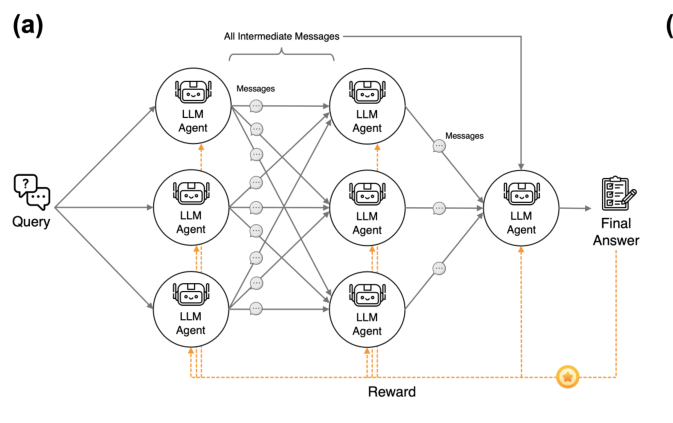
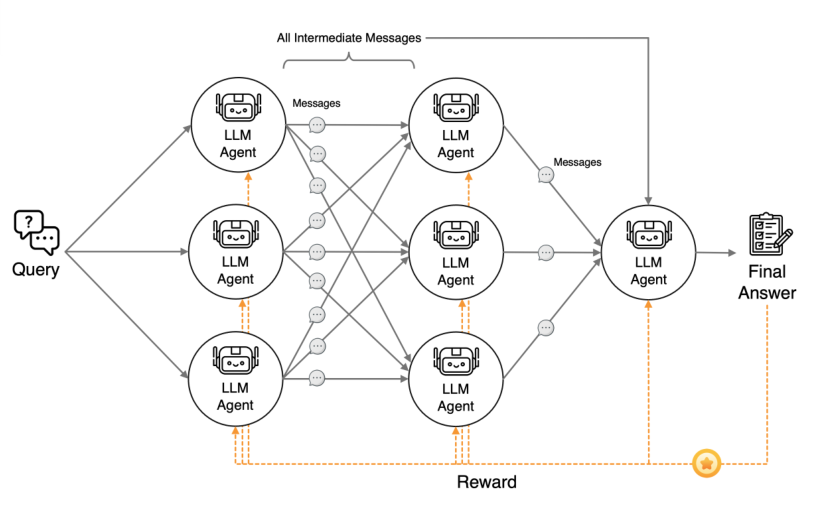
Enlarge research card images and clean NeuroMAS crop

diff --git a/_sass/_research.scss b/_sass/_research.scss
@@ -16,8 +16,9 @@
 
 .research-card {
   display: flex;
-  gap: 1.5em;
-  align-items: center;
+  flex-direction: column;
+  gap: 1em;
+  align-items: stretch;
   padding: 1.1em;
   margin: 0 0 1.2em;
   background: #fff;
@@ -27,8 +28,8 @@
   &:hover { box-shadow: 0 8px 24px rgba(0, 0, 0, 0.08); transform: translateY(-2px); }
 
   &__media {
-    flex: 0 0 38%;
-    img, video { width: 100%; display: block; border-radius: 8px; object-fit: contain; aspect-ratio: 16 / 10; background: #fff; }
+    flex: none;
+    img, video { width: 100%; display: block; border-radius: 8px; object-fit: contain; background: #fff; max-height: 420px; }
   }
   &__body { flex: 1; font-size: 0.9em; line-height: 1.45; }
   &__title { font-weight: 700; font-size: 1.08em; color: #1a365d; margin-bottom: .3em; }
@@ -42,9 +43,7 @@
     &:hover { background: #0b7285; color: #fff; }
   }
 }
-@media (max-width: 640px) {
-  .research-card { flex-direction: column; align-items: stretch; &__media { flex-basis: auto; } }
-}
+
 
 .video-row {
   display: flex; flex-wrap: wrap; gap: 1em; margin: 1em 0 1.5em;

diff --git a/_includes/research-cards.html b/_includes/research-cards.html
@@ -5,7 +5,7 @@
     {% if m contains ".mp4" or m contains ".webm" %}
       <video src="{{ '/images/research/' | append: p.media | relative_url }}" autoplay muted loop playsinline preload="metadata"></video>
     {% else %}
-      <img src="{{ '/images/research/' | append: p.media | relative_url }}" alt="{{ p.title | escape }}" loading="lazy">
+      <a href="{{ '/images/research/' | append: p.media | relative_url }}" target="_blank" rel="noopener"><img src="{{ '/images/research/' | append: p.media | relative_url }}" alt="{{ p.title | escape }}" loading="lazy"></a>
     {% endif %}
   </div>
   <div class="research-card__body">
